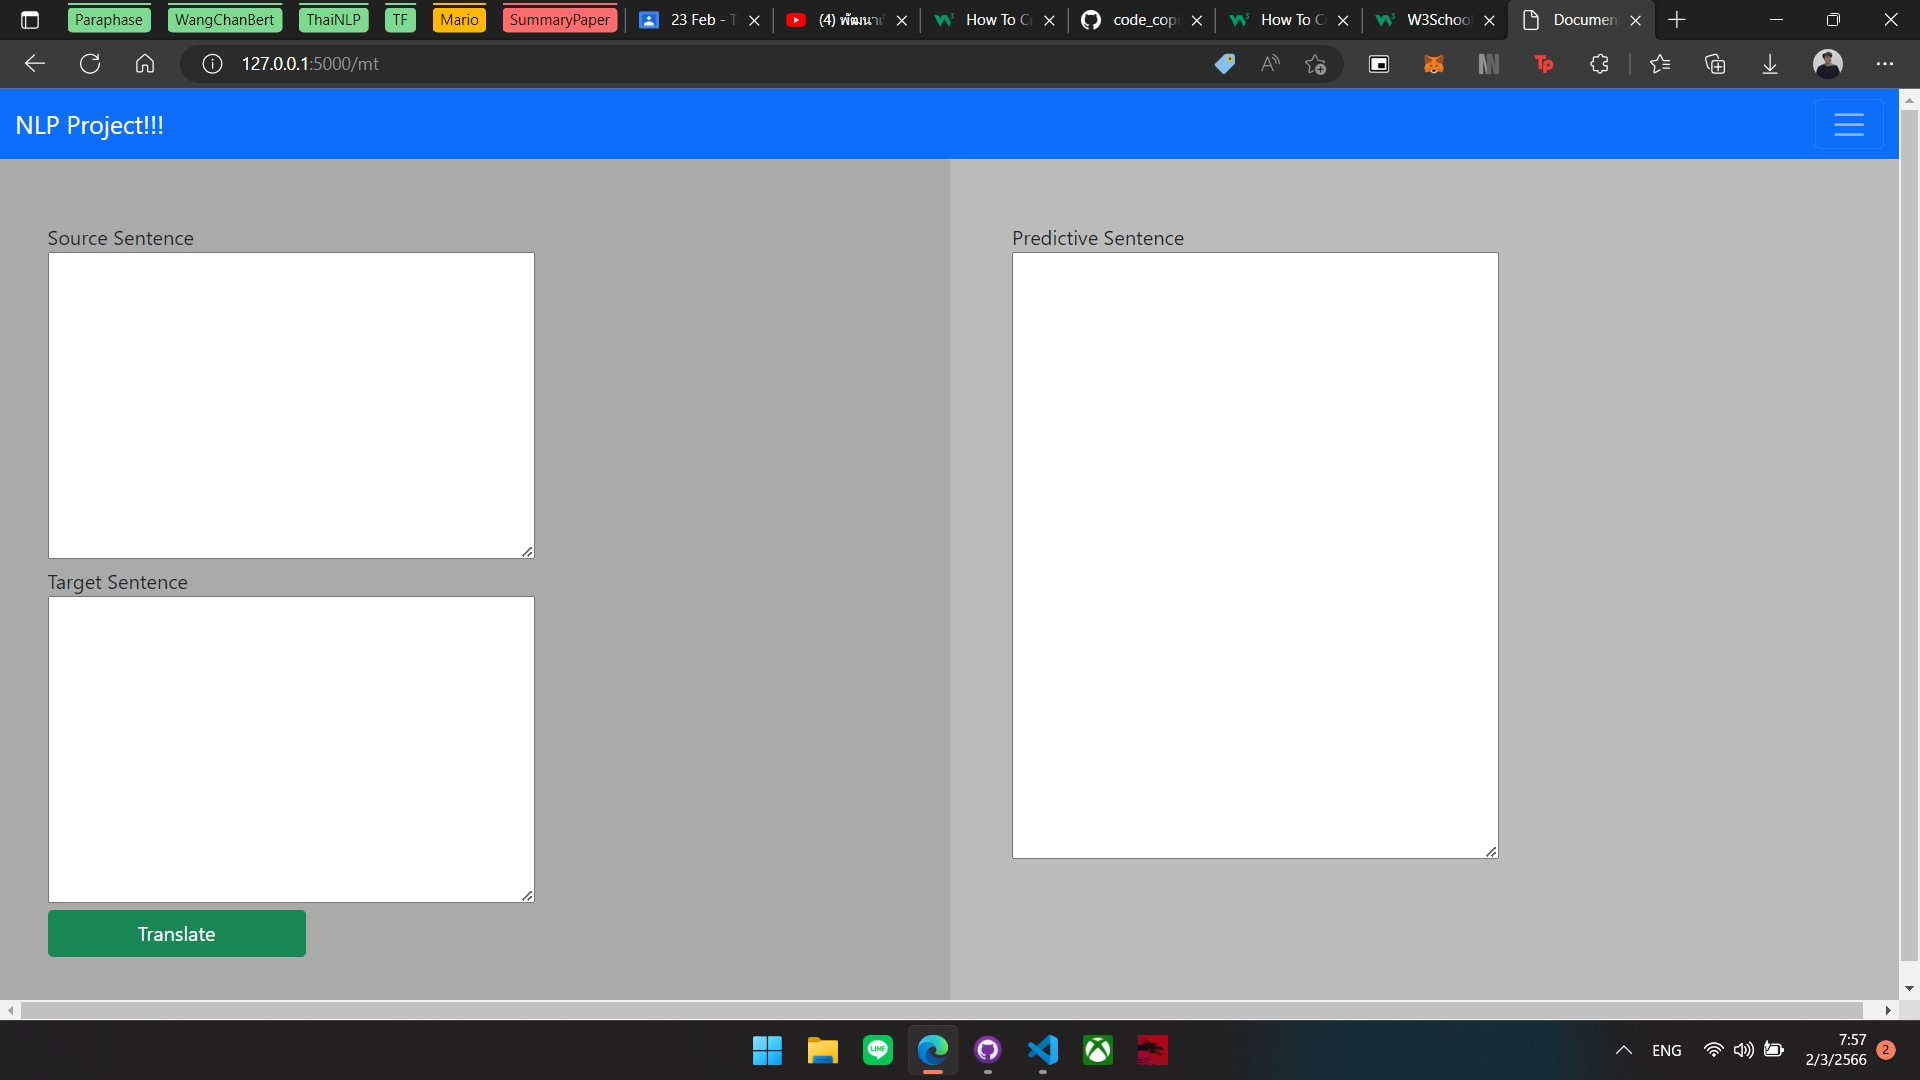
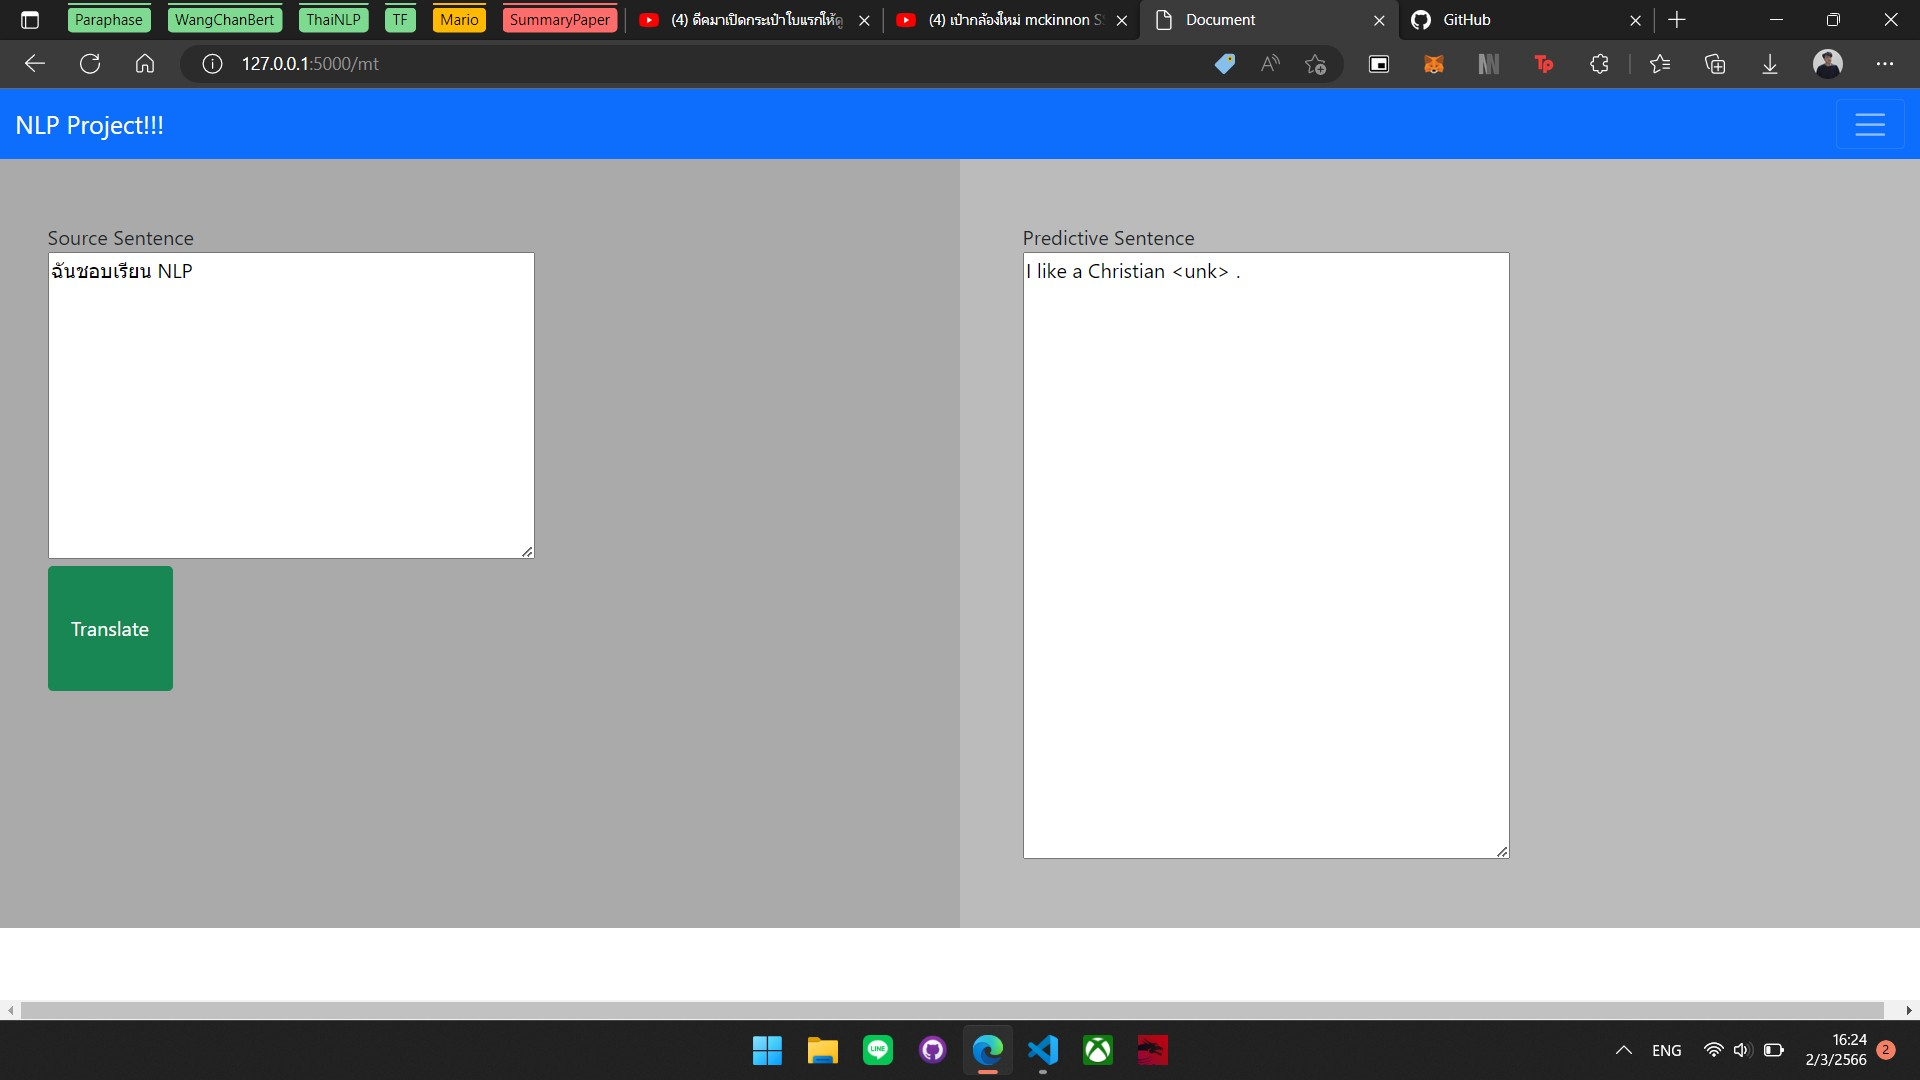
update

diff --git a/Course/Natural Language Understanding/Assignment/07 - Machine Translation TH-EN/main_mt.py b/Course/Natural Language Understanding/Assignment/07 - Machine Translation TH-EN/main_mt.py
@@ -1,5 +1,23 @@
 from flask import Flask, render_template, request, redirect, url_for, session, flash
 from wtforms.validators import DataRequired
+from TestingNMT import *
+# import TestingNMT
+import torch
+
+import torch, torchdata, torchtext
+from torch import nn
+import torch.nn.functional as F
+
+import random, math, time
+
+device = torch.device('cuda:0' if torch.cuda.is_available() else 'cpu')
+#make our work comparable if restarted the kernel
+SEED = 1234
+torch.manual_seed(SEED)
+torch.backends.cudnn.deterministic = True
+
+variants = 'additive'
+save_path = './models/Seq2SeqPackedAttention_additive.pt'
 
 app = Flask(__name__)
 app.config['SECRET_KEY'] = 'mykey'
@@ -15,9 +33,14 @@ def about():
 
 @app.route('/mt', methods = ['GET','POST'])
 def machinetranslation():
-    source = request.args.get('source')
-    target = request.args.get('targets')
-    data = {"source":source,"target":target}
+    if request.method == 'POST':
+        source = request.form.get('source')
+        predict = translation(source, variants, save_path, device)
+    else:
+        source = ' '
+        predict = ' '
+    # predict = 555
+    data = {"source":source, "predict":predict}
     return render_template("mt.html", data = data)
 
 if __name__ == "__main__":
